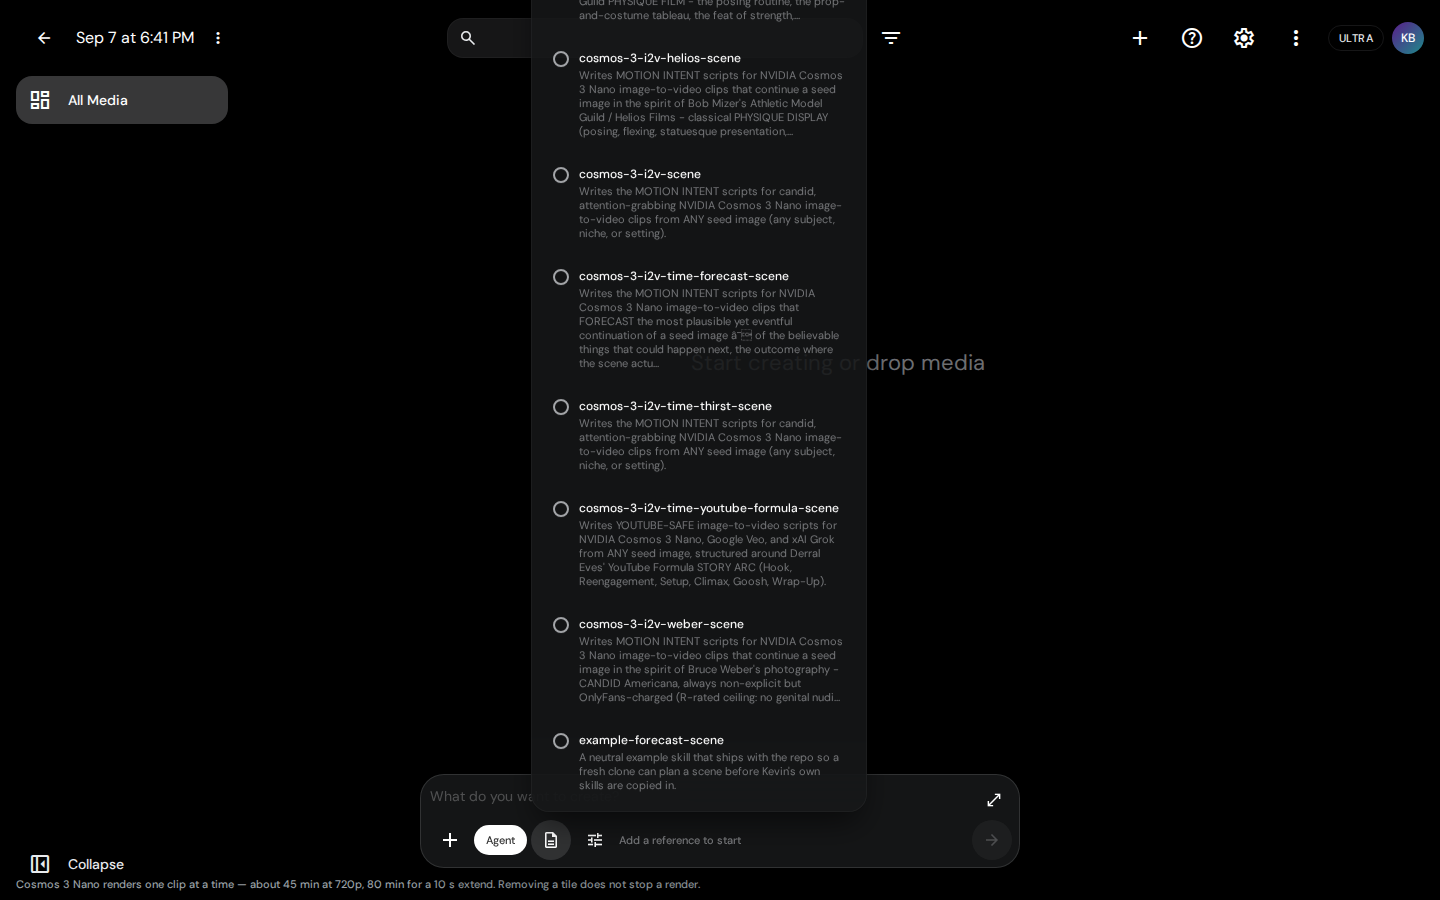
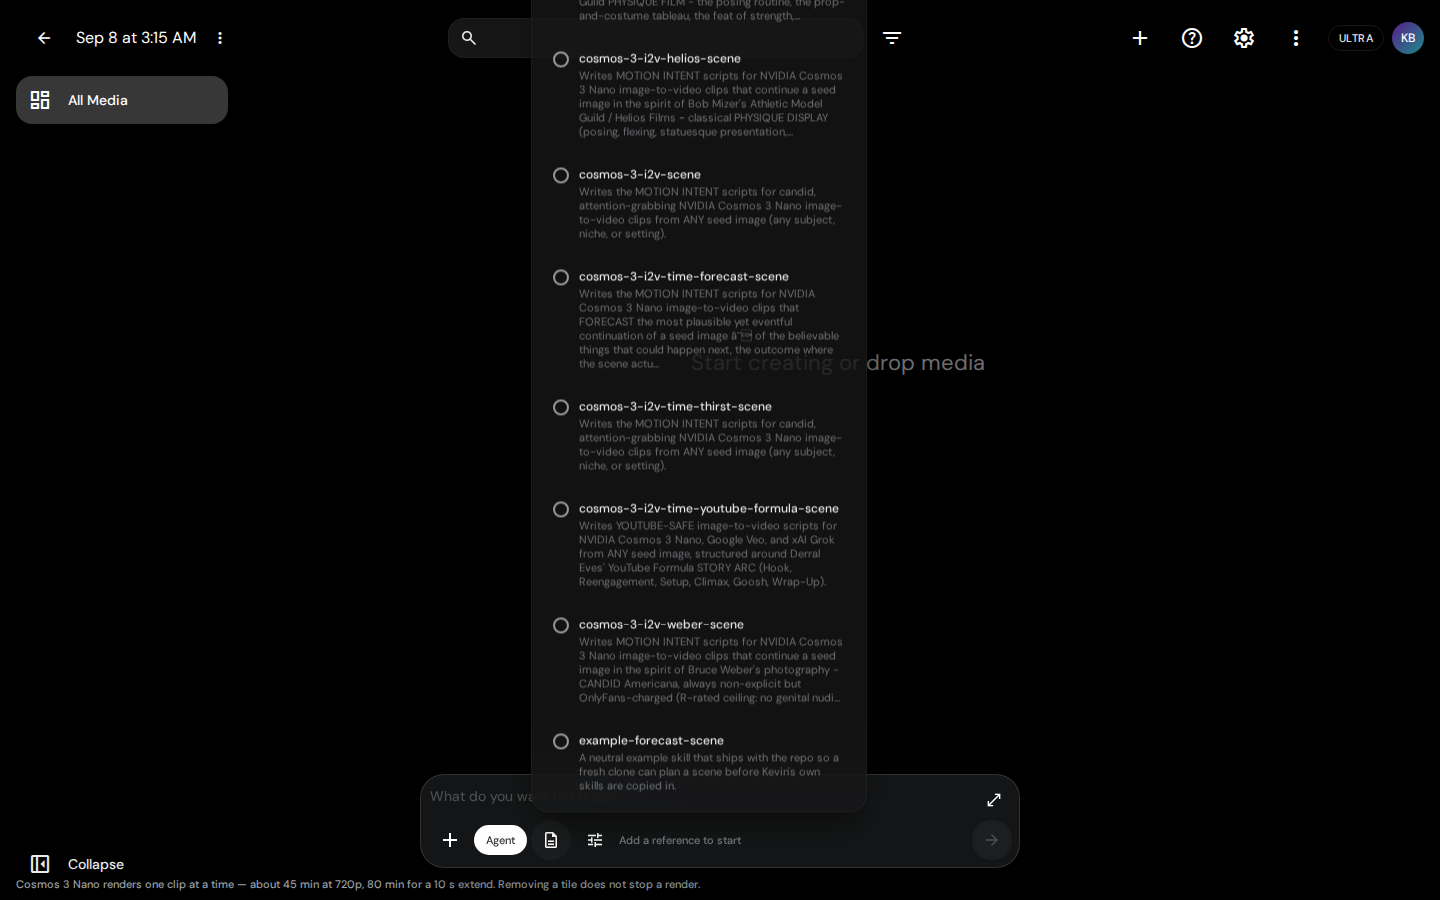
STORY_034 done, EPIC_003 done: v0.2.1 deployed, the size preview verified on the box
Deployed flow v0.2.1 (conformance 23/23, contract green including the
portrait-seed check, agent surface and home page re-verified, About reads
0.2.1 against the pin). flow/tests/e2e_ui_size_preview.py proves the composer
shows the corrected size before Generate for a landscape photo, a portrait
clip and a landscape clip, and that the created run records what the chip
showed. The home checker now compares the About version to the pin instead of
a hardcoded number.

diff --git a/flow/tests/e2e_ui_size_preview.py b/flow/tests/e2e_ui_size_preview.py
@@ -1,0 +1,113 @@
+"""STORY_034 E2E: on the box, the composer shows the corrected size BEFORE Generate is pressed.
+
+Drives the deployed sidecar at the LAN address in headless Chromium. Attaches references of
+known shape and reads the composer's size chip; for the photo it also creates a run (which is
+abandoned before it plans anything expensive… it will plan, so the run is deleted straight
+after) and checks the recorded size equals what the chip showed. No render.
+
+    python3 flow/tests/e2e_ui_size_preview.py --base http://192.168.1.33:8003 \\
+        --photo in:8e8ca68e-01.jpeg --portrait-video out:video_gen_95480fff67924d2294e5854a6f0cd290.mp4 \\
+        --landscape-video out:run_9b56240457f8_full.mp4
+"""
+
+from __future__ import annotations
+
+import argparse
+import json
+import re
+import sys
+import time
+import urllib.request
+from pathlib import Path
+
+from playwright.sync_api import expect, sync_playwright
+
+
+def log(*a) -> None:
+    print(time.strftime("%H:%M:%S"), *a, flush=True)
+
+
+def attach(page, name_fragment: str) -> None:
+    page.get_by_role("button", name="Add assets").click()
+    dialog = page.get_by_role("dialog", name="Add to Prompt")
+    dialog.locator("button").filter(has_text=re.compile(re.escape(name_fragment))).first.click()
+    dialog.get_by_role("button", name="Add to Prompt").click()
+    expect(dialog).to_have_count(0)
+
+
+def chip_size(page, timeout_ms: int = 15_000) -> str:
+    chip = page.get_by_test_id("agent-size")
+    expect(chip).to_be_visible(timeout=timeout_ms)
+    return re.search(r"\d+x\d+", chip.inner_text()).group(0)
+
+
+def main(argv: list[str] | None = None) -> int:
+    ap = argparse.ArgumentParser()
+    ap.add_argument("--base", default="http://192.168.1.33:8003")
+    ap.add_argument("--photo", required=True, help="media id of a landscape photo already uploaded")
+    ap.add_argument("--portrait-video", required=True, help="media id of a 720x1280 clip")
+    ap.add_argument("--landscape-video", required=True, help="media id of an 832x480 or 1280x720 clip")
+    ap.add_argument("--out", type=Path, default=Path("docs/evidence/story-034-size-preview"))
+    args = ap.parse_args(argv)
+    args.out.mkdir(parents=True, exist_ok=True)
+    runs_dir = Path.home() / "Documents/flow-media/flow-runs"
+
+    caps = json.load(urllib.request.urlopen(args.base + "/flow/capabilities"))
+    log("agent.shape_from_seed:", caps["agent"].get("shape_from_seed"))
+    assert caps["agent"].get("shape_from_seed") is True, "the deployed sidecar must declare shape_from_seed"
+
+    with sync_playwright() as p:
+        browser = p.chromium.launch()
+        page = browser.new_context(viewport={"width": 1440, "height": 900}).new_page()
+        errors: list[str] = []
+        page.on("pageerror", lambda e: errors.append(str(e)))
+        page.goto(f"{args.base}/flow/")
+        page.get_by_role("button", name="New project").click()
+        page.wait_for_selector("[data-testid=composer]")
+        page.get_by_role("button", name="Agent", exact=True).click()
+        page.get_by_role("button", name="Agent instructions", exact=True).click()
+        page.get_by_test_id("instruction-picker").get_by_role("radio").first.click()
+        page.keyboard.press("Escape")
+        expect(page.get_by_test_id("agent-size")).to_have_count(0)          # nothing attached → nothing claimed
+
+        # 1. a landscape photo against the UI's portrait default
+        attach(page, args.photo.split(":", 1)[1])            # the picker lists full file names
+        shown = chip_size(page)
+        log("photo attached → chip shows", shown)
+        assert shown == "1280x720", shown
+        page.screenshot(path=str(args.out / "01-photo-chip-1280x720.png"))
+        page.get_by_role("button", name="Generate", exact=True).click()
+        expect(page.get_by_test_id("run-step")).to_be_visible()
+        runs = json.load(urllib.request.urlopen(args.base + "/flow/agent/runs"))
+        run = max(runs, key=lambda r: r["created_at"])
+        log("run", run["id"], "recorded", run["values"]["size"])
+        assert run["values"]["size"] == shown, (run["values"]["size"], shown)
+        page.screenshot(path=str(args.out / "02-run-recorded-same-size.png"))
+        (runs_dir / f"{run['id']}.json").unlink(missing_ok=True)             # abandon it — no render
+        page.get_by_role("button", name="Close").click()
+
+        # 2. a portrait clip picked for an Extend
+        page.get_by_role("button", name="Agent", exact=True).click() if page.get_by_role("button", name="Agent", exact=True).get_attribute("aria-pressed") != "true" else None
+        attach(page, args.portrait_video.split(":", 1)[1])
+        shown = chip_size(page)
+        log("portrait clip attached → chip shows", shown)
+        assert shown == "720x1280", shown
+        page.screenshot(path=str(args.out / "03-portrait-clip-chip-720x1280.png"))
+        page.get_by_role("button", name="Remove reference").click()
+        expect(page.get_by_test_id("agent-size")).to_have_count(0)          # reverts when removed
+
+        # 3. a landscape clip picked for an Extend
+        attach(page, args.landscape_video.split(":", 1)[1])
+        shown = chip_size(page)
+        log("landscape clip attached → chip shows", shown)
+        assert shown == "1280x720", shown
+        page.screenshot(path=str(args.out / "04-landscape-clip-chip-1280x720.png"))
+
+        assert not errors, errors
+        log("page errors:", errors, "— OK")
+        browser.close()
+    return 0
+
+
+if __name__ == "__main__":
+    sys.exit(main())

diff --git a/flow/tests/e2e_ui_home.py b/flow/tests/e2e_ui_home.py
@@ -76,7 +76,7 @@ def phase_b(browser, ui: str, out: Path, state: Path) -> int:
     return 0
 
 
-def phase_a(browser, base: str, ui: str, out: Path, outputs: Path) -> int:
+def phase_a(browser, base: str, ui: str, out: Path, outputs: Path, ui_version: str | None = None) -> int:
     caps = json.load(urllib.request.urlopen(base + "/flow/capabilities"))
     log("capabilities.agent:", caps.get("agent"))
     assert caps.get("agent"), "the sidecar does not declare the agent capability"
@@ -127,8 +127,13 @@ def phase_a(browser, base: str, ui: str, out: Path, outputs: Path) -> int:
              .filter(has_text=re.compile(r"Protocol"))
              .filter(has_text=re.compile(r"Model")).last.inner_text())
     log("about:", " | ".join(l for l in about.splitlines() if l.strip())[:300])
-    for needle in ("Flow UI", "0.2.0", "Protocol", "v1", "same origin", "Cosmos 3 Nano"):
+    for needle in ("Flow UI", "Protocol", "v1", "same origin", "Cosmos 3 Nano"):
         assert needle in about, f"About lacks {needle!r}: {about!r}"
+    shown = re.search(r"\b\d+\.\d+\.\d+\b", about)
+    assert shown, f"About shows no UI version: {about!r}"
+    if ui_version and shown.group(0) != ui_version:
+        raise AssertionError(f"About shows Flow UI {shown.group(0)}, the pin says {ui_version}")
+    log("Flow UI version shown:", shown.group(0), "(pin:", ui_version or "not given", ")")
     page.screenshot(path=str(out / "04-about.png"))
     page.keyboard.press("Escape")
 
@@ -190,6 +195,7 @@ def main(argv: list[str] | None = None) -> int:
     ap.add_argument("--out", type=Path, default=Path("docs/evidence/story-028-home-page"))
     ap.add_argument("--outputs", type=Path, default=Path.home() / "Documents/flow-media/flow-outputs")
     ap.add_argument("--phase", choices=["A", "B"], default="A")
+    ap.add_argument("--ui-version", help="the UI version the About panel must show, e.g. 0.2.1 (the FLOW_VERSION pin without its v)")
     ap.add_argument("--state", type=Path, help="phase B: the storage state e2e_ui_generate.py --state wrote")
     args = ap.parse_args(argv)
     args.out.mkdir(parents=True, exist_ok=True)
@@ -202,7 +208,7 @@ def main(argv: list[str] | None = None) -> int:
                 if not args.state:
                     ap.error("--phase B needs --state")
                 return phase_b(browser, ui, args.out, args.state)
-            return phase_a(browser, args.base, ui, args.out, args.outputs)
+            return phase_a(browser, args.base, ui, args.out, args.outputs, args.ui_version)
         finally:
             browser.close()
 

diff --git a/docs/epic/EPIC_003_agent_plans_a_scene_then_renders_it.md b/docs/epic/EPIC_003_agent_plans_a_scene_then_renders_it.md
@@ -1,6 +1,6 @@
 # EPIC_003 — The agent plans a scene, then renders it
 
-**Status:** STORY_029–032 code complete, deployed 2026-09-07. BUG_006 worked around (user-space Ollama bridge). The real 3-clip run `run_e3bd921556a7` rendered clips 1–2, failed at clip 3 on **BUG_007** (trimmed clips read 24.1 fps — fixed, clip 2 re-trimmed), was resumed, and now sits **paused on BUG_010** (the engine keeps ~113 GB after a 720p clip; needs an idle-engine restart — Kevin's call). STORY_032 is verified in the browser against the real backend (a 1-clip UI run rendered to done; evidence under `docs/evidence/story-032-agent-ui/`) and waits only on the flow `v0.2.0` tag for its `FLOW_VERSION` bump. Flow-side: BUG-001 (Expand icon) fixed on `develop`, unpushed.
+**Status:** Done 2026-09-08 — STORY_029 through STORY_034 closed. The agent plans from Kevin's own skills, renders chains three clips deep with exact 24 fps Extends (BUG_007), takes the clip's shape from the seed (STORY_033) with the rule living upstream so the Flow UI previews it before a render (STORY_034 / flow STORY-608, `v0.2.1`), and ran two unattended 30-second scenes overnight (`docs/evidence/overnight-2026-09-07/`). Open, upstream: flow BUG-003 (a waiting run cannot be acted on from the grid), BUG-004 (batch metadata goes stale), STORY-607 (seed as poster). Open here: BUG_014 (720p Extend clamp), BACKLOG_005 (engine recovery in the executor), BACKLOG_008 (join the scene automatically).
 **Stories:** STORY_029 → STORY_032 (this repo) · Agent UI in `kevinbrowncodes/flow` (its own epic, referenced below)
 **Related:** EPIC_001 (Extend), EPIC_002 (Flow UI), BACKLOG_003 (library promotion), BACKLOG_004 (project storage), flow `RECON-10-agent-mode.md`
 **Decided:** 2026-09-07 with Kevin — see *Decisions*

diff --git a/docs/story/STORY_034_one_place_decides_the_clip_shape.md b/docs/story/STORY_034_one_place_decides_the_clip_shape.md
@@ -13,9 +13,12 @@ without a second copy of the rule quietly disagreeing with the first.
 - [x] `flow/runs.py` imports `size_for_seed` from `flow_protocol` and no longer defines its own
 - [x] Behaviour is unchanged: the STORY_033 cases still hold, checked against the same shared
       vectors the upstream suite uses
-- [ ] `FLOW_VERSION` is the release that carries the rule and the composer display
-- [ ] The Flow UI on this box shows the corrected size **before** Generate is pressed, for both
-      an uploaded photo and a clip picked for an Extend
+- [x] `FLOW_VERSION` is the release that carries the rule and the composer display — `v0.2.1`, deployed 2026-09-08 03:14 (image `flow.version=v0.2.1`, conformance 23/23, contract green with the portrait-seed check)
+- [x] The Flow UI on this box shows the corrected size **before** Generate is pressed, for both
+      an uploaded photo and a clip picked for an Extend — `flow/tests/e2e_ui_size_preview.py` at the LAN
+      address: landscape photo → chip `1280x720` and the created run recorded `1280x720`; a 720x1280 clip →
+      `720x1280`; an 832x480 clip → `1280x720`; the chip disappears when the reference is removed
+      (`docs/evidence/story-034-size-preview/`)
 - [x] `probe_dimensions` stays here — measuring a local file is this sidecar's job, not the
       protocol's
 - [x] `flow/` stays at or above 95 % line coverage; `gateway/server.py` untouched
